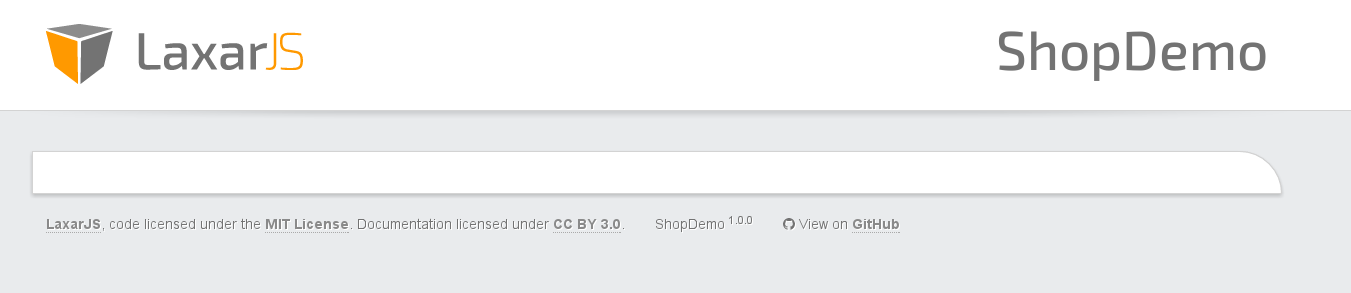
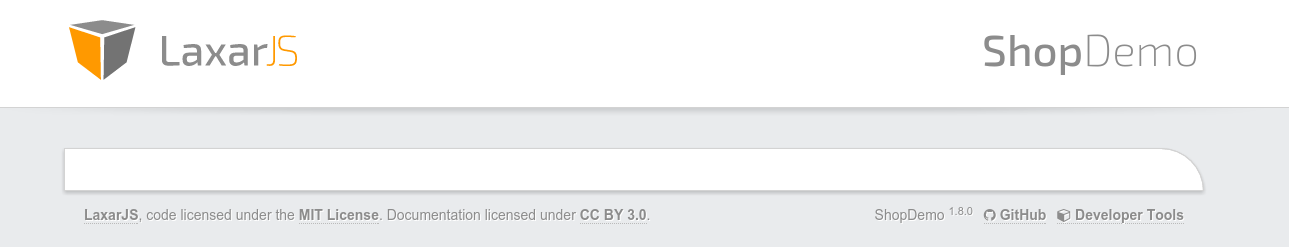
(#34) added laxar-developer-tools-widget and created page visualization screenshots for tutorial

diff --git a/application/layouts/application/default.theme/application.html b/application/layouts/application/default.theme/application.html
@@ -23,7 +23,11 @@
          <span class="app-laxarjs"><a href="http://laxarjs.org/" title="Go back to LaxarJS.org"><b>LaxarJS</b></a></span>, code licensed under the <a href="http://laxarjs.org/license" title="Show the MIT license"><b>MIT License</b></a>. Documentation licensed under <a href="http://creativecommons.org/licenses/by/3.0/" title="Show the creative commons"><b>CC BY 3.0</b></a>.
       </div>
       <div class="col col-md-4 app-version">
-         <span>ShopDemo <sup>1.8.0-pre</sup></span> <a href="https://github.com/LaxarJS/shop-demo"><i class="fa fa-github"></i> <b>GitHub</b></a>
+         <span>ShopDemo
+            <sup>1.8.0-pre</sup>
+         </span>
+         <a href="https://github.com/LaxarJS/shop-demo"><i class="fa fa-github"></i> <b>GitHub</b></a>
+         <a href="javascript:window.goDevelop()"><i class="fa fa-cube"></i> <b>Developer Tools</b></a>
       </div>
    </footer>
 </div>

diff --git a/require_config.js b/require_config.js
@@ -8,12 +8,16 @@ var require = {
 
       'laxar': 'laxar/dist/laxar.with-deps',
       'laxar-uikit': 'laxar-uikit/dist/laxar-uikit',
+      'laxar-patterns': 'laxar-patterns/dist/laxar-patterns',
       'laxar-path-default-theme': 'laxar-uikit/dist/themes/default.theme',
 
       // LaxarJS Testing:
       'laxar-mocks': 'laxar-mocks/dist/laxar-mocks',
       jasmine2: 'jasmine2/lib/jasmine-core/jasmine',
       'promise-polyfill': 'promise-polyfill/Promise',
+
+      // LaxarJS Patterns:
+      'json-patch': 'fast-json-patch/src/json-patch-duplex',
 
       // App Parts:
       'laxar-path-root': '..',
@@ -64,6 +68,9 @@ var require = {
             'use strict';
             return angular;
          }
+      },
+      'json-patch': {
+         exports: 'jsonpatch'
       }
    }
 };
